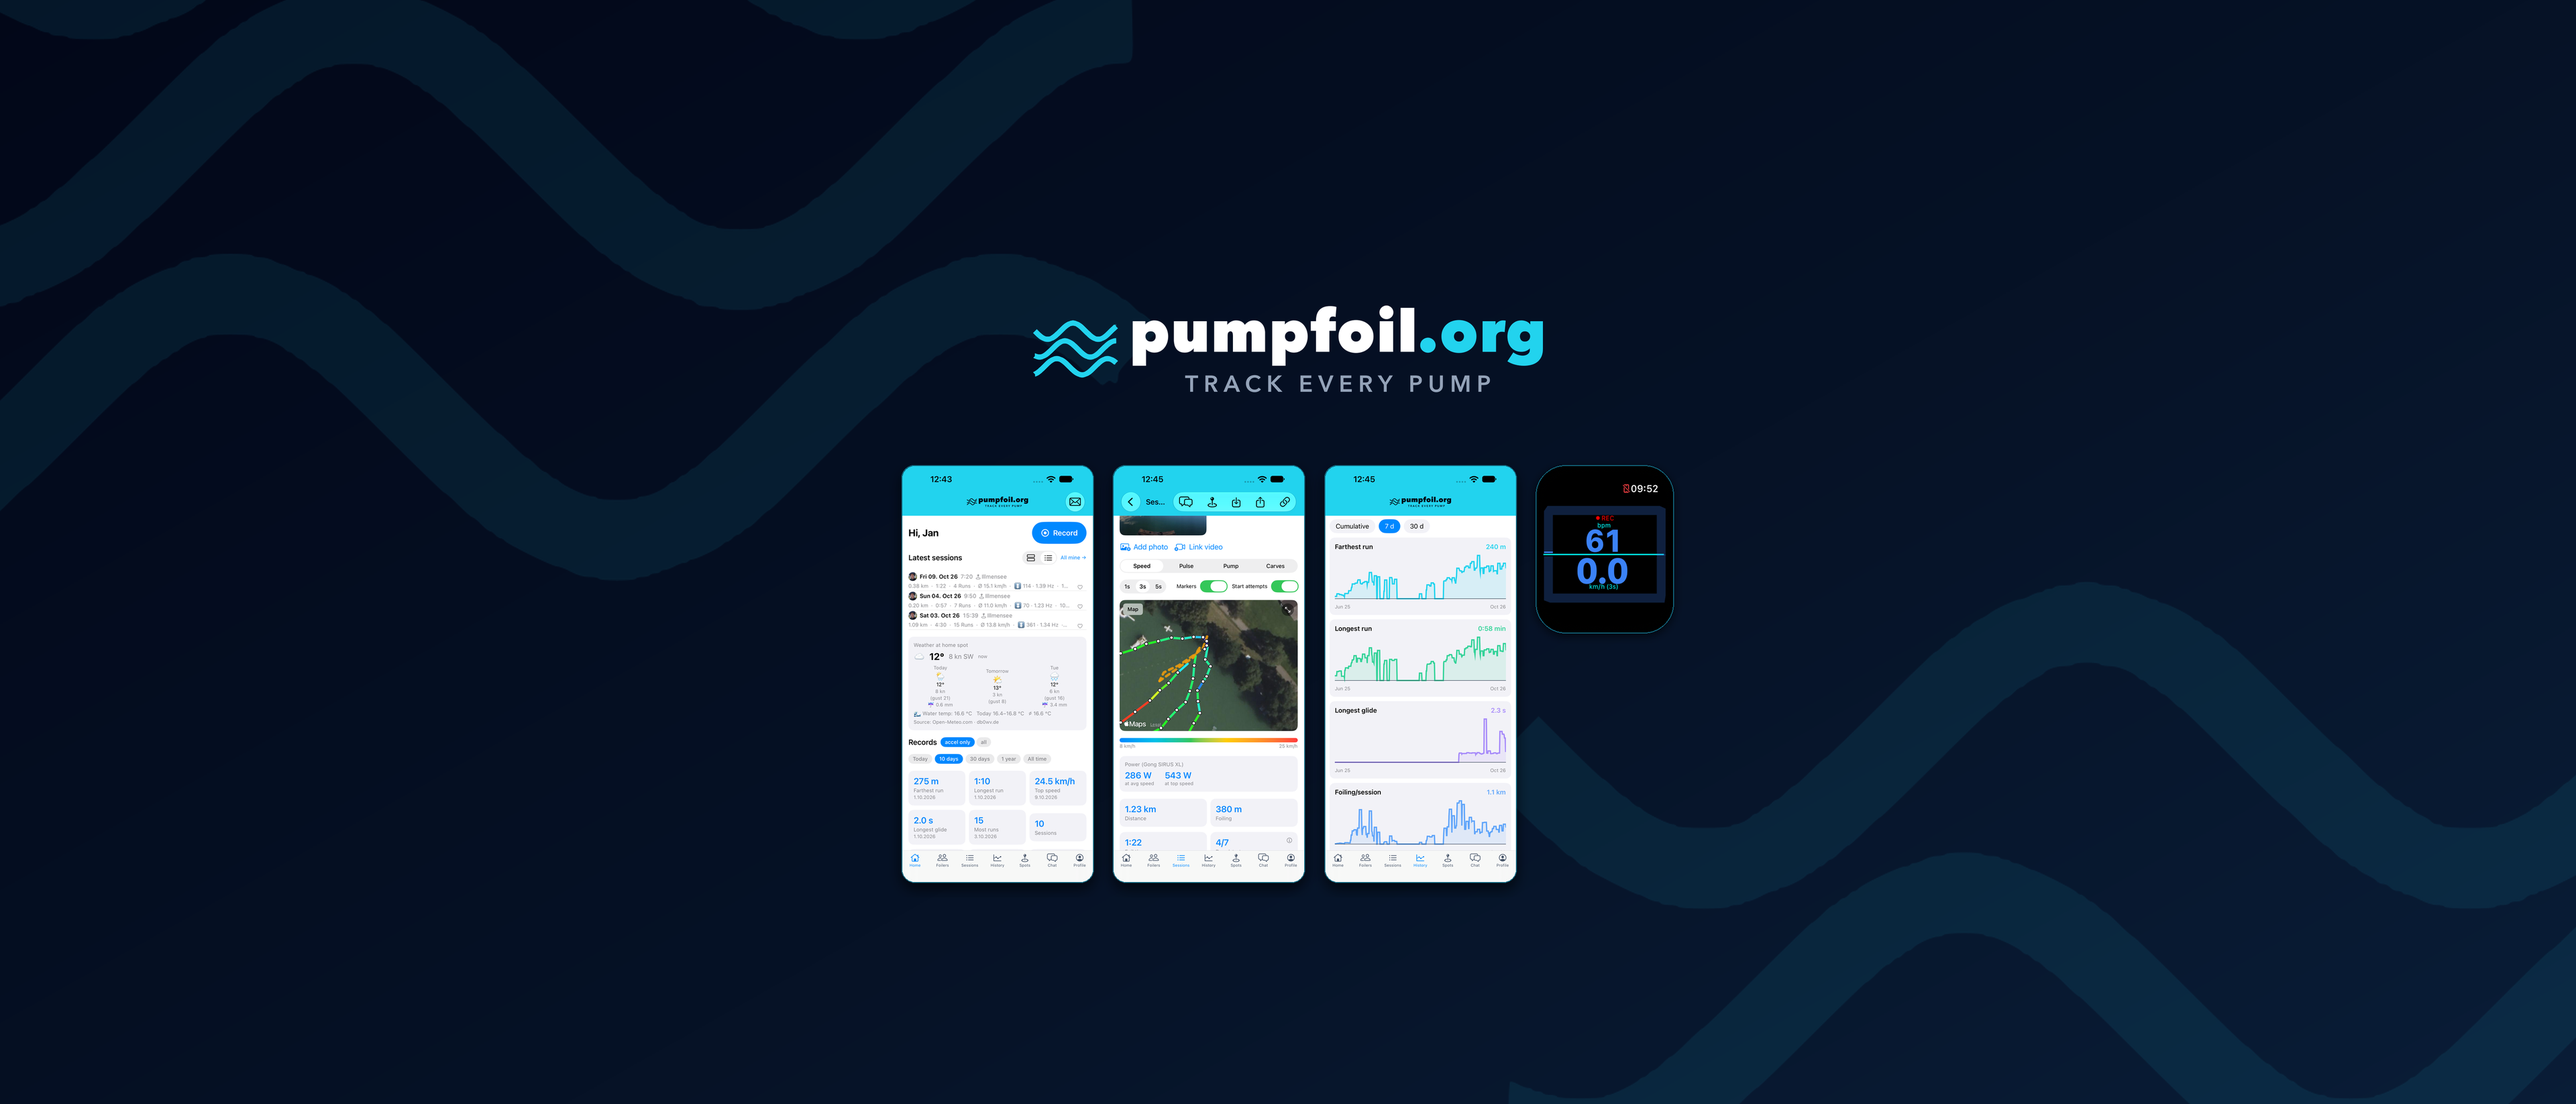
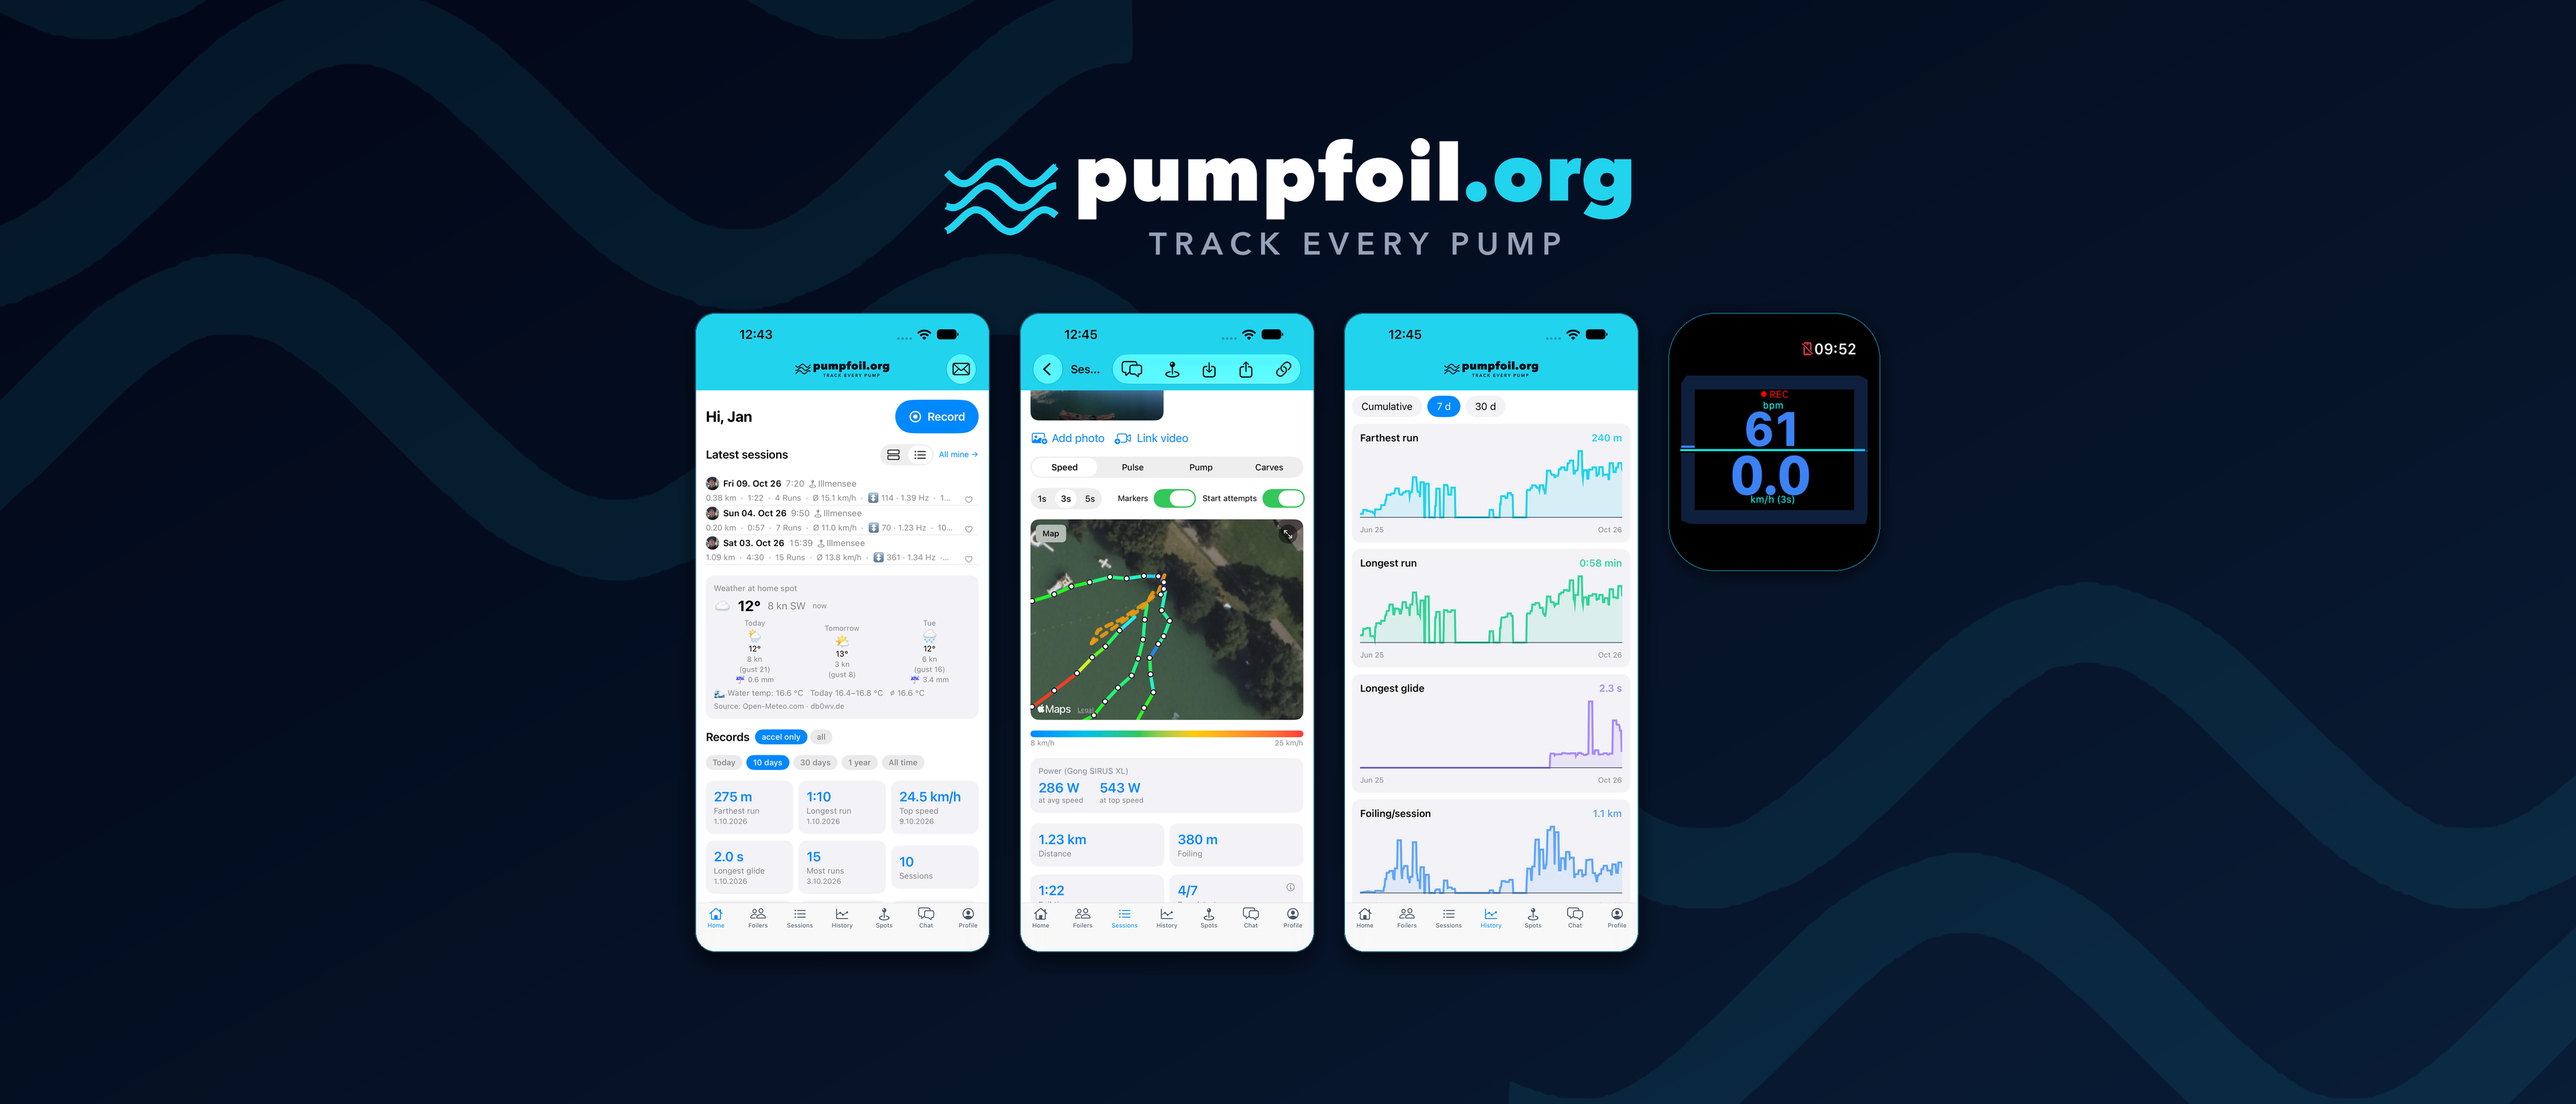
App-Store-Kopfzeile: groesser und hoeher (iPhone zeigt Mitte 54 % Breite, oben bis 63 % Hoehe)
Claude-Session: https://claude.ai/code/session_01SwpsW3PioXLbF9Wo2iJrfq

Changed region(s): [[0.25, 0.2789, 0.75, 0.8676], [0.3438, 0.1239, 0.6562, 0.2479]]

diff --git a/brand/master/appstore_header.py b/brand/master/appstore_header.py
@@ -75,8 +75,12 @@ def gerahmt(img, breite, radius_anteil=0.07):
 # kante der screenshots, dann ist es nicht schlimm wenn drunter was abgeschnitten wird … links und
 # rechts einfach komplett leer lassen"): oben das Lockup, darunter drei Screens und die Uhr mit
 # buendiger Oberkante. Unten darf der Ausschnitt abschneiden, links und rechts ist nur Hintergrund.
-SPALTE_B = 0.30                # Breite der Spalte (Anteil von W)
-LOGO_Y, SCREENS_Y = 0.36, 0.44   # Mitte des Lockups / Oberkante der Screens (Anteil von H)
+# Zweite Vorschau (Jan, 12.10.2026: „etwas groesser, weiter oben anfangen"): das iPhone zeigt die
+# mittleren ~54 % der Breite und von OBEN bis ~63 % der Hoehe (darunter liegt die App-Info).
+# Oben liegen Dynamic Island und die Knoepfe Zurueck/Teilen (bis ~0,22 H, aussen) — das Lockup
+# sitzt knapp darunter, die Screens beginnen direkt danach und laufen unten aus dem Bild.
+SPALTE_B = 0.46                # Breite der Spalte (Anteil von W)
+LOGO_Y, SCREENS_Y = 0.255, 0.335   # Mitte des Lockups / Oberkante der Screens (Anteil von H)
 
 
 def bauen(W, H):
@@ -89,7 +93,7 @@ def bauen(W, H):
     spalte = W * SPALTE_B
     # Lockup oben, etwas kleiner als die Spalte
     block = lockup_block()
-    s = spalte * 0.66 / block.width
+    s = spalte * 0.58 / block.width
     block = block.resize((round(block.width * s), round(block.height * s)), Image.LANCZOS)
     base.alpha_composite(block, ((W - block.width) // 2, int(H * LOGO_Y - block.height / 2)))
     # Darunter: drei Screens + Uhr nebeneinander, Oberkanten buendig
